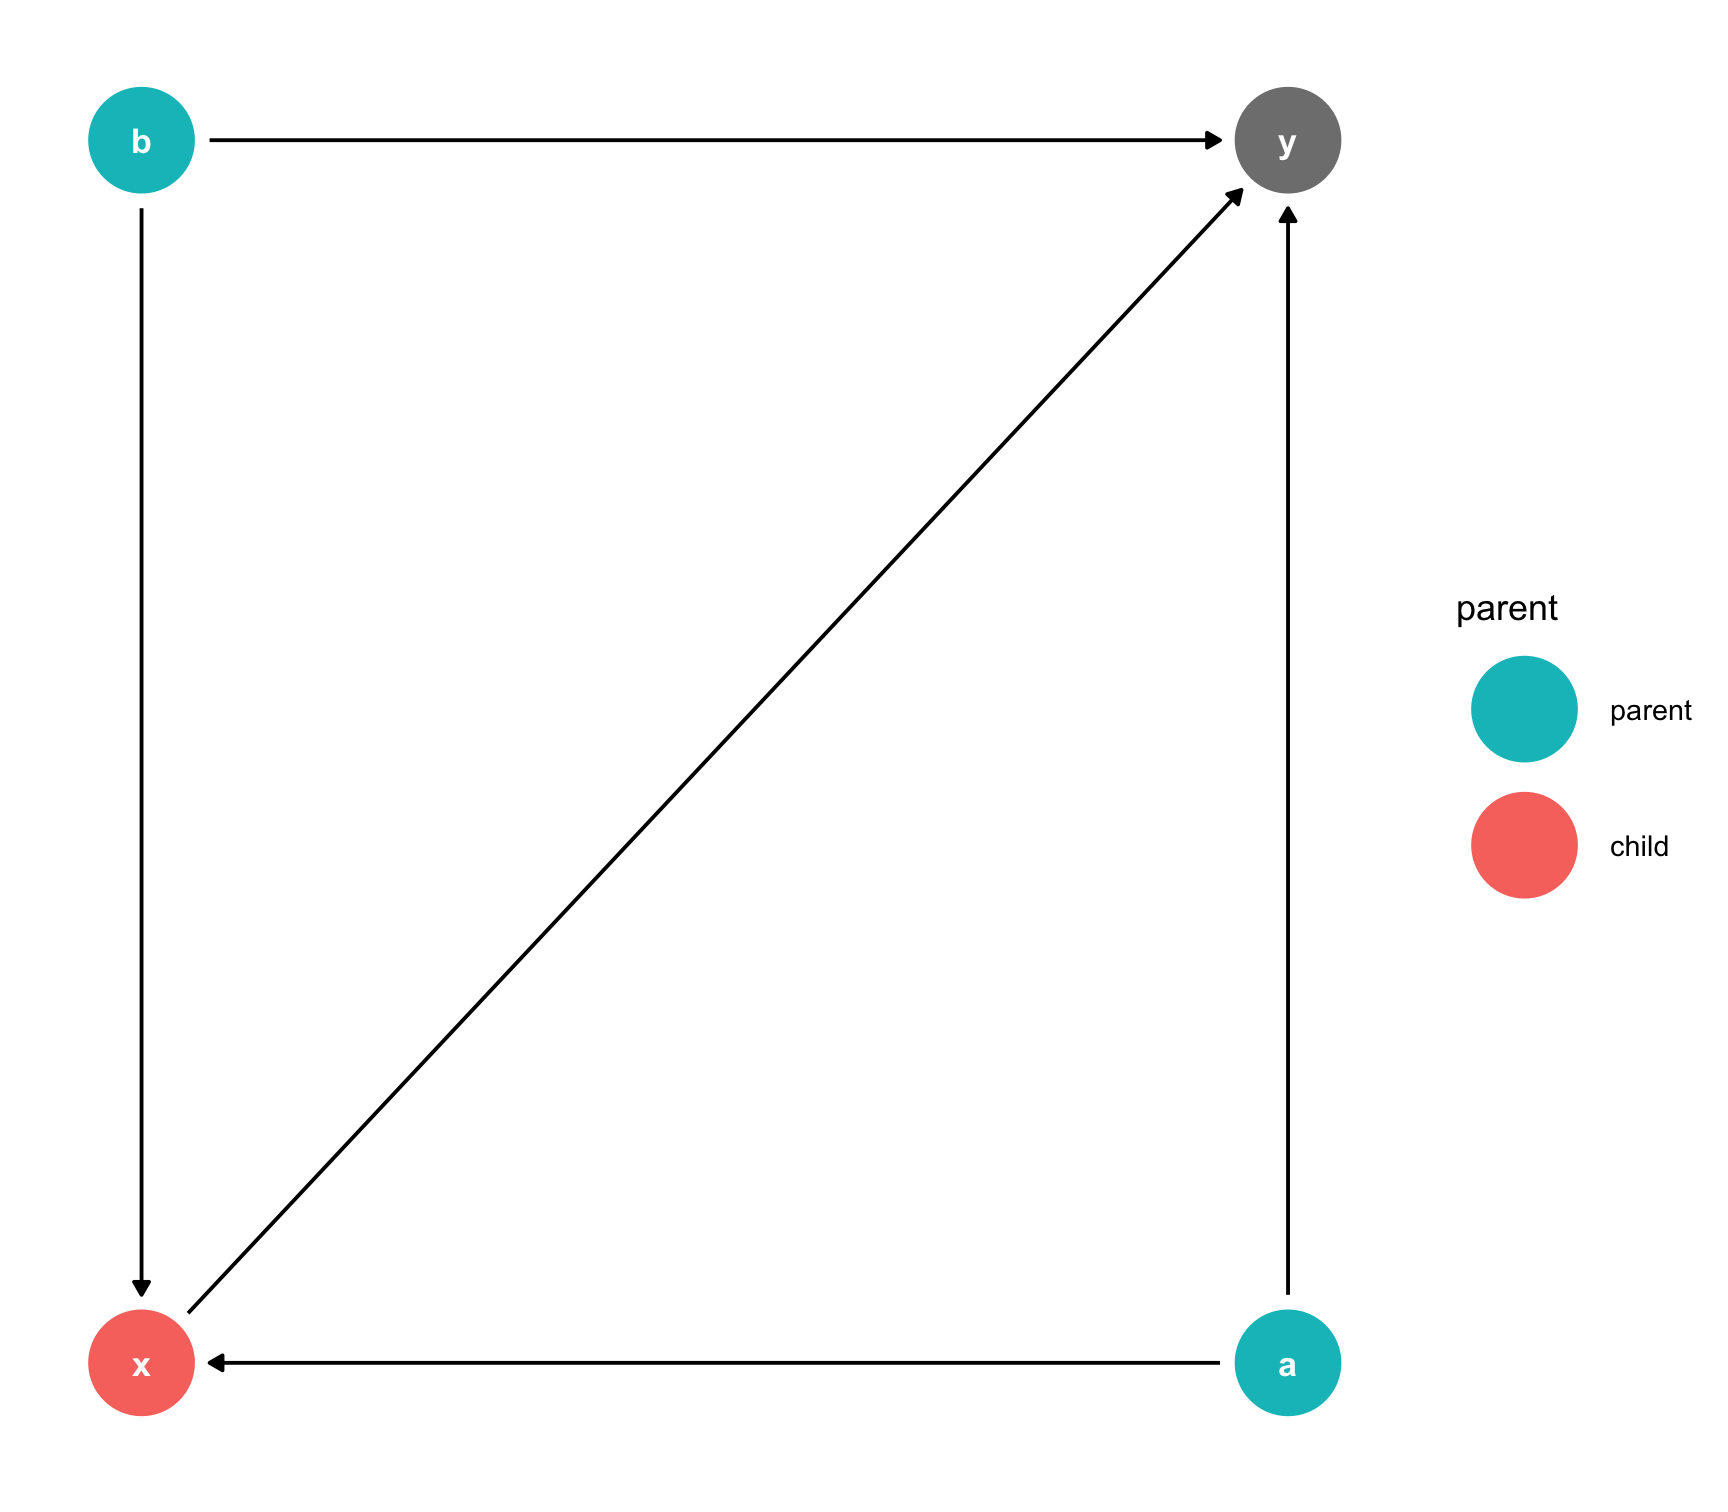
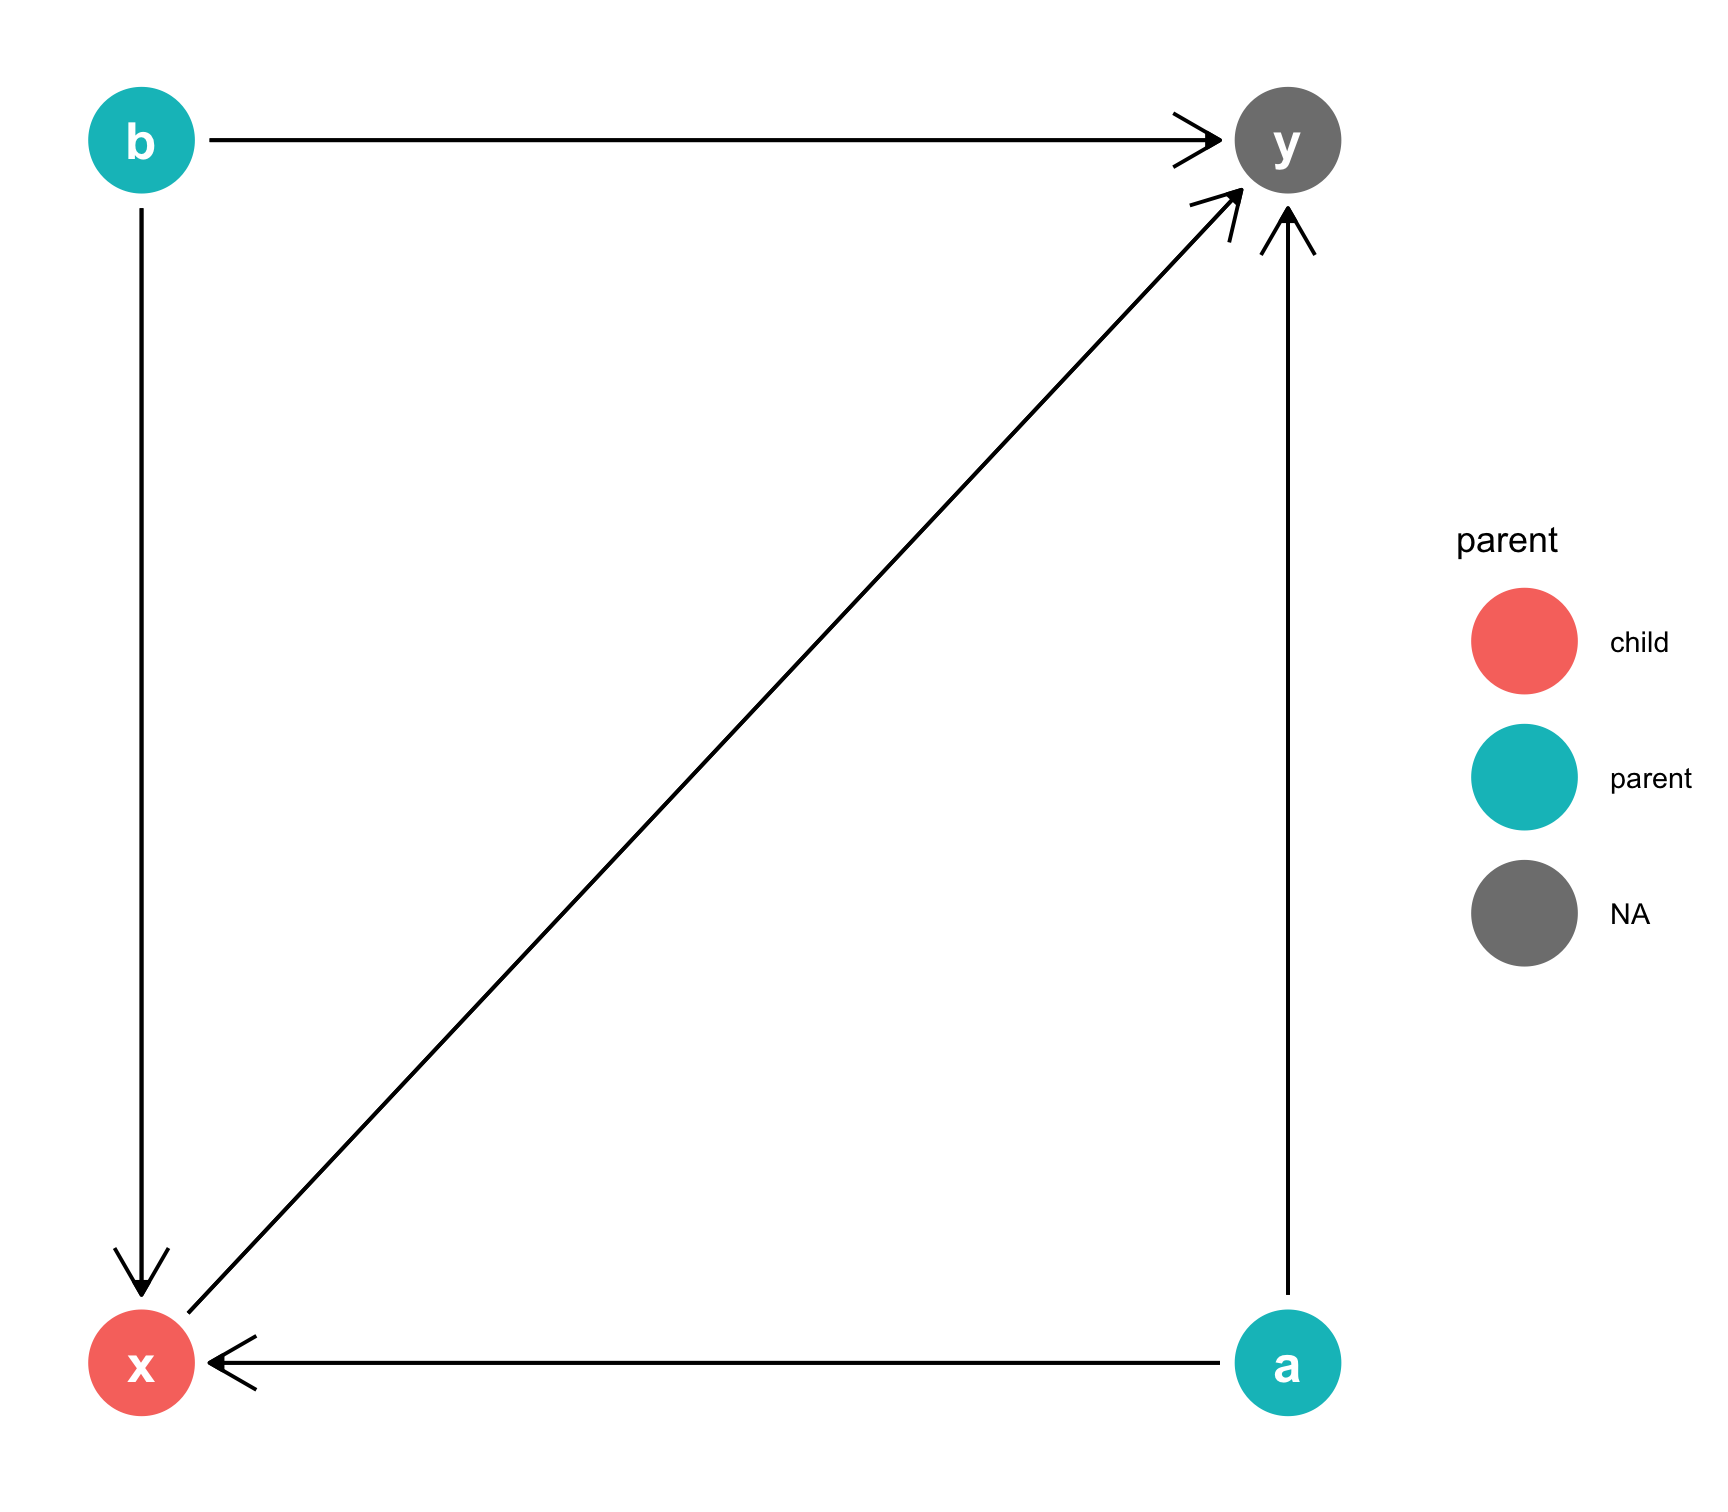
Updated to show bigger arrows. Added explanatory text

diff --git a/demo-tutorial/images/flipbook.html b/demo-tutorial/images/flipbook.html
@@ -24,17 +24,13 @@ class: center, middle, inverse, title-slide
 
 
 
-
-
----
-
 count: false
  
 
 .left-panel-dags-user[
 
 ```r
-*coords &lt;- list(
+*mycoords &lt;- list(
 *       x = c(x = 0, y = 1, a = 1, b = 0),
 *       y = c(x = 0, y = 1, a = 0, b = 1)
 *   )
@@ -42,7 +38,7 @@ count: false
 *      x ~ a + b,
 *      exposure = "x",
 *      outcome = "y",
-*      coords = coords)
+*      coords = mycoords)
 ```
 ]
  
@@ -62,7 +58,7 @@ count: false
 .left-panel-dags-user[
 
 ```r
-coords &lt;- list(  
+mycoords &lt;- list(  
         x = c(x = 0, y = 1, a = 1, b = 0),  
         y = c(x = 0, y = 1, a = 0, b = 1)  
     )  
@@ -70,7 +66,7 @@ dagify(y ~ x + a + b,
        x ~ a + b,  
        exposure = "x",  
        outcome = "y",  
-       coords = coords) %&gt;%  
+       coords = mycoords) %&gt;%  
 * node_parents("x")
 ```
 ]
@@ -102,7 +98,7 @@ count: false
 .left-panel-dags-user[
 
 ```r
-coords &lt;- list(  
+mycoords &lt;- list(  
         x = c(x = 0, y = 1, a = 1, b = 0),  
         y = c(x = 0, y = 1, a = 0, b = 1)  
     )  
@@ -110,7 +106,7 @@ dagify(y ~ x + a + b,
        x ~ a + b,  
        exposure = "x",  
        outcome = "y",  
-       coords = coords) %&gt;%  
+       coords = mycoords) %&gt;%  
   node_parents("x") %&gt;%  
 * ggplot()
 ```
@@ -127,7 +123,7 @@ count: false
 .left-panel-dags-user[
 
 ```r
-coords &lt;- list(  
+mycoords &lt;- list(  
         x = c(x = 0, y = 1, a = 1, b = 0),  
         y = c(x = 0, y = 1, a = 0, b = 1)  
     )  
@@ -135,7 +131,7 @@ dagify(y ~ x + a + b,
        x ~ a + b,  
        exposure = "x",  
        outcome = "y",  
-       coords = coords) %&gt;%  
+       coords = mycoords) %&gt;%  
   node_parents("x") %&gt;%  
   ggplot() +  
 * aes(x = x) +
@@ -154,7 +150,7 @@ count: false
 .left-panel-dags-user[
 
 ```r
-coords &lt;- list(  
+mycoords &lt;- list(  
         x = c(x = 0, y = 1, a = 1, b = 0),  
         y = c(x = 0, y = 1, a = 0, b = 1)  
     )  
@@ -162,7 +158,7 @@ dagify(y ~ x + a + b,
        x ~ a + b,  
        exposure = "x",  
        outcome = "y",  
-       coords = coords) %&gt;%  
+       coords = mycoords) %&gt;%  
   node_parents("x") %&gt;%  
   ggplot() +  
   aes(x = x) +  
@@ -182,7 +178,7 @@ count: false
 .left-panel-dags-user[
 
 ```r
-coords &lt;- list(  
+mycoords &lt;- list(  
         x = c(x = 0, y = 1, a = 1, b = 0),  
         y = c(x = 0, y = 1, a = 0, b = 1)  
     )  
@@ -190,13 +186,15 @@ dagify(y ~ x + a + b,
        x ~ a + b,  
        exposure = "x",  
        outcome = "y",  
-       coords = coords) %&gt;%  
+       coords = mycoords) %&gt;%  
   node_parents("x") %&gt;%  
   ggplot() +  
   aes(x = x) +  
   aes(y = y) +  
   geom_dag_point() +  
-* geom_dag_text(col = "white")
+* geom_dag_edges() +
+* aes(xend = xend) +
+* aes(yend = yend)
 ```
 ]
  
@@ -211,7 +209,7 @@ count: false
 .left-panel-dags-user[
 
 ```r
-coords &lt;- list(  
+mycoords &lt;- list(  
         x = c(x = 0, y = 1, a = 1, b = 0),  
         y = c(x = 0, y = 1, a = 0, b = 1)  
     )  
@@ -219,16 +217,16 @@ dagify(y ~ x + a + b,
        x ~ a + b,  
        exposure = "x",  
        outcome = "y",  
-       coords = coords) %&gt;%  
+       coords = mycoords) %&gt;%  
   node_parents("x") %&gt;%  
   ggplot() +  
   aes(x = x) +  
   aes(y = y) +  
   geom_dag_point() +  
-  geom_dag_text(col = "white") +  
-* geom_dag_edges() +
-* aes(xend = xend) +
-* aes(yend = yend)
+  geom_dag_edges() +  
+  aes(xend = xend) +  
+  aes(yend = yend) +  
+* geom_dag_text(col = "white", size = 6)
 ```
 ]
  
@@ -243,7 +241,7 @@ count: false
 .left-panel-dags-user[
 
 ```r
-coords &lt;- list(  
+mycoords &lt;- list(  
         x = c(x = 0, y = 1, a = 1, b = 0),  
         y = c(x = 0, y = 1, a = 0, b = 1)  
     )  
@@ -251,17 +249,17 @@ dagify(y ~ x + a + b,
        x ~ a + b,  
        exposure = "x",  
        outcome = "y",  
-       coords = coords) %&gt;%  
+       coords = mycoords) %&gt;%  
   node_parents("x") %&gt;%  
   ggplot() +  
   aes(x = x) +  
   aes(y = y) +  
   geom_dag_point() +  
-  geom_dag_text(col = "white") +  
   geom_dag_edges() +  
   aes(xend = xend) +  
   aes(yend = yend) +  
-* aes(color = parent)
+  geom_dag_text(col = "white", size = 6) +  
+* geom_dag_edges_link(arrow = grid::arrow())
 ```
 ]
  
@@ -276,7 +274,7 @@ count: false
 .left-panel-dags-user[
 
 ```r
-coords &lt;- list(  
+mycoords &lt;- list(  
         x = c(x = 0, y = 1, a = 1, b = 0),  
         y = c(x = 0, y = 1, a = 0, b = 1)  
     )  
@@ -284,18 +282,18 @@ dagify(y ~ x + a + b,
        x ~ a + b,  
        exposure = "x",  
        outcome = "y",  
-       coords = coords) %&gt;%  
+       coords = mycoords) %&gt;%  
   node_parents("x") %&gt;%  
   ggplot() +  
   aes(x = x) +  
   aes(y = y) +  
   geom_dag_point() +  
-  geom_dag_text(col = "white") +  
   geom_dag_edges() +  
   aes(xend = xend) +  
   aes(yend = yend) +  
-  aes(color = parent) +  
-* theme_dag()
+  geom_dag_text(col = "white", size = 6) +  
+  geom_dag_edges_link(arrow = grid::arrow()) +  
+* aes(color = parent)
 ```
 ]
  
@@ -310,7 +308,7 @@ count: false
 .left-panel-dags-user[
 
 ```r
-coords &lt;- list(  
+mycoords &lt;- list(  
         x = c(x = 0, y = 1, a = 1, b = 0),  
         y = c(x = 0, y = 1, a = 0, b = 1)  
     )  
@@ -318,16 +316,52 @@ dagify(y ~ x + a + b,
        x ~ a + b,  
        exposure = "x",  
        outcome = "y",  
-       coords = coords) %&gt;%  
+       coords = mycoords) %&gt;%  
   node_parents("x") %&gt;%  
   ggplot() +  
   aes(x = x) +  
   aes(y = y) +  
   geom_dag_point() +  
-  geom_dag_text(col = "white") +  
   geom_dag_edges() +  
   aes(xend = xend) +  
   aes(yend = yend) +  
+  geom_dag_text(col = "white", size = 6) +  
+  geom_dag_edges_link(arrow = grid::arrow()) +  
+  aes(color = parent) +  
+* theme_dag()
+```
+]
+ 
+.right-panel-dags-user[
+&lt;img src="flipbook_files/figure-html/dags_user_10_output-1.png" width="576" /&gt;
+]
+
+---
+count: false
+ 
+
+.left-panel-dags-user[
+
+```r
+mycoords &lt;- list(  
+        x = c(x = 0, y = 1, a = 1, b = 0),  
+        y = c(x = 0, y = 1, a = 0, b = 1)  
+    )  
+dagify(y ~ x + a + b,  
+       x ~ a + b,  
+       exposure = "x",  
+       outcome = "y",  
+       coords = mycoords) %&gt;%  
+  node_parents("x") %&gt;%  
+  ggplot() +  
+  aes(x = x) +  
+  aes(y = y) +  
+  geom_dag_point() +  
+  geom_dag_edges() +  
+  aes(xend = xend) +  
+  aes(yend = yend) +  
+  geom_dag_text(col = "white", size = 6) +  
+  geom_dag_edges_link(arrow = grid::arrow()) +  
   aes(color = parent) +  
   theme_dag() +  
 * scale_color_hue(
@@ -337,7 +371,7 @@ dagify(y ~ x + a + b,
 ]
  
 .right-panel-dags-user[
-&lt;img src="flipbook_files/figure-html/dags_user_10_output-1.png" width="576" /&gt;
+&lt;img src="flipbook_files/figure-html/dags_user_11_output-1.png" width="576" /&gt;
 ]
 
 &lt;style&gt;

diff --git a/demo-tutorial/demo-tutorial.html b/demo-tutorial/demo-tutorial.html
@@ -116,10 +116,12 @@ $(document).ready(function () {
 
 <div class="topics">
 
-<div id="section-coding-dags-in-r" class="section level2">
-<h2>Coding DAGS in R</h2>
-<div id="section-overview" class="section level3">
-<h3>Overview</h3>
+<div id="section-proof-of-concept-embedding-flipbookr-slides-in-learnr-tutorials" class="section level2">
+<h2>Proof of concept: embedding <code>flipbookr</code> slides in <code>learnr</code> tutorials</h2>
+<p>This is a demonstration tutorial illustrating how <a href="https://evamaerey.github.io/flipbooks/about"><code>flipbookr</code> slides</a> can be incorporated into <a href="https://rstudio.github.io/learnr/"><code>learnr</code> interactive tutorials</a>. The step-by-step illustration of code using a flipbook combined with the hands-on interactive coding chunk provided by <code>learnr</code> offers a powerful learning experience. The code to create this demonstration can be found on GitHub <a href="https://github.com/MarkHanly/flipbook-in-learnr">here</a>. This approach was inspired by a talk on <code>Xaringan</code> given by <a href="https://emitanaka.org/">Emi Tanaka</a>.</p>
+<p>The material on DAGs comes from a more fully developed tutorial from the <a href="https://cbdrh.med.unsw.edu.au/postgraduate-coursework">UNSW Masters of Health Data Science</a>, delivered by the <a href="https://cbdrh.med.unsw.edu.au/">Centre for Big Data Resource in Health</a>.</p>
+<div id="section-coding-dags-in-r-overview" class="section level3">
+<h3>Coding DAGS in R: Overview</h3>
 <p>The DAGs in this tutorial are created using the <code>ggdag</code> function. You can read a detailed vignette on the package <a href="https://cran.r-project.org/web/packages/ggdag/vignettes/intro-to-ggdag.html">here</a>.</p>
 </div>
 <div id="section-demonstration" class="section level3">
@@ -129,9 +131,10 @@ $(document).ready(function () {
 </iframe>
 <p>Note that:</p>
 <ul>
-<li>The funtion <code>dagify()</code> is used to define the relationships between nodes. For example <code>y ~ x</code> indicates that an arrow will point from <strong>x</strong> to <strong>y</strong>.<br />
+<li>You can fix the node positions using <code>coords =</code>. Otherwise they are randomly chosen.</li>
+<li>The funtion <code>dagify()</code> is used to define the relationships between nodes. E.g. <code>y ~ x</code> indicates that an arrow will point from <strong>x</strong> to <strong>y</strong>.<br />
 </li>
-<li>Passing the output of <code>dagify()</code> to <code>node_parents()</code> creates a dataframe distinguishing between child and parent nodes.</li>
+<li>Passing the output of <code>dagify()</code> to <code>node_parents(x)</code> creates a dataframe distinguishing between child and parent nodes of <strong>x</strong>.</li>
 <li><code>geom_dag_point()</code> and <code>geom_dag_edges()</code> plot the results.</li>
 <li>Applying <code>theme_dag()</code> provides a nice clean plot.</li>
 </ul>
@@ -139,32 +142,34 @@ $(document).ready(function () {
 <div id="section-try-it-yourself" class="section level3">
 <h3>Try it yourself</h3>
 <p>Try experimenting with the code below to create your own DAG.</p>
-<div class="tutorial-exercise" data-label="ggdag1" data-caption="Code" data-completion="1" data-diagnostics="1" data-startover="1" data-lines="30">
-<pre class="text"><code>coords &lt;- list(
+<div class="tutorial-exercise" data-label="ggdag1" data-caption="Code" data-completion="1" data-diagnostics="1" data-startover="1" data-lines="25">
+<pre class="text"><code># specifying fixed coordinates means that the nodes of the DAG will 
+# always be in the same in the same place. If we don&#39;t include this, 
+# the nodes will be randomly arranged each time the DAG is drawn
+coords &lt;- list(
         x = c(x = 0, y = 1, a = 1, b = 0),
         y = c(x = 0, y = 1, a = 0, b = 1)
     )
+
+
 dagify(y ~ x + a + b,
        x ~ a + b,
        exposure = &quot;x&quot;,
        outcome = &quot;y&quot;,
        coords = coords) %&gt;%  
   node_parents(&quot;x&quot;) %&gt;% 
-  ggplot() + 
-  aes(x = x) +
-  aes(y = y) + 
+  ggplot(aes(x=x, y=y, xend=xend, yend=yend, color=parent)) + 
   geom_dag_point() + 
-  geom_dag_text(col = &quot;white&quot;) + 
   geom_dag_edges() +
-  aes(xend = xend) +
-  aes(yend = yend) + 
-  aes(color = parent) + 
+  geom_dag_text(col = &quot;white&quot;, size = 6) + 
+  geom_dag_edges_link(arrow = grid::arrow()) + 
   theme_dag() + 
   scale_color_hue(
     breaks  = c(&quot;parent&quot;, &quot;child&quot;)
     ) </code></pre>
 <script type="application/json" data-opts-chunk="1">{"fig.width":6.5,"fig.height":4,"fig.retina":2,"fig.align":"default","fig.keep":"high","fig.show":"asis","out.width":624,"warning":true,"error":false,"message":true,"exercise.df_print":"paged","exercise.checker":"NULL"}</script>
 </div>
+<p>You might notice that this code differs slightly from the code in the flipbook slides above. The flipbook code uses <em>slow ggplot</em> as described by the <code>flipbookr</code> package developer Evangeline Reynolds in her <a href="https://evangelinereynolds.netlify.app/post/slow-ggplot/">blog</a>. Slow ggplot is an approach to writing ggplot code that focuses on incremental changes, for example, instead of specifying <code>aes(x=xy, y=y, xend=xend, yend=yend, color=parent)</code> in a single line, slow ggplot separates out each aesthetic element to a separate line, to emphasise how that element affects the graph. The editable code above dispenses with the slow ggplot syntax, and is more typical of how you will write R code in the wild.</p>
 
 <script type="application/shiny-prerendered" data-context="server-start">
 library(learnr)
